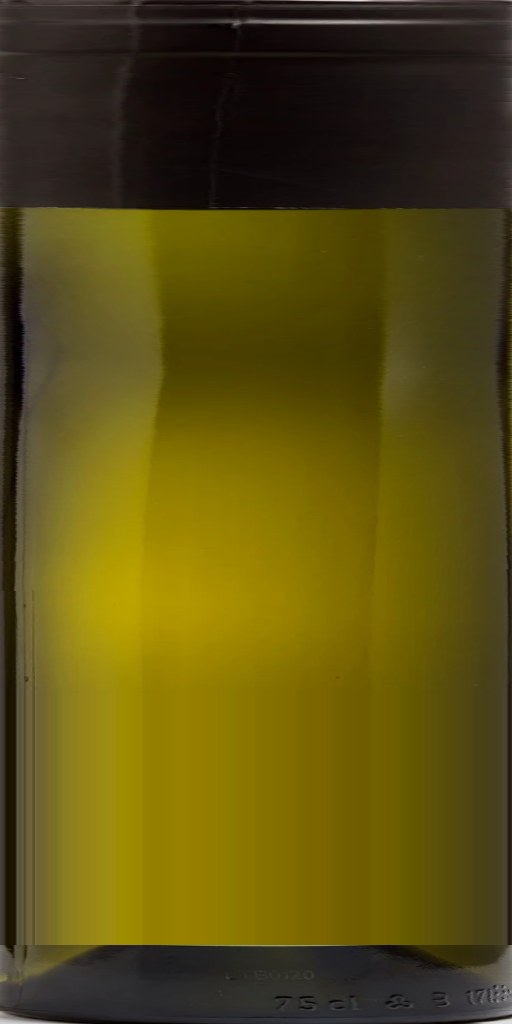
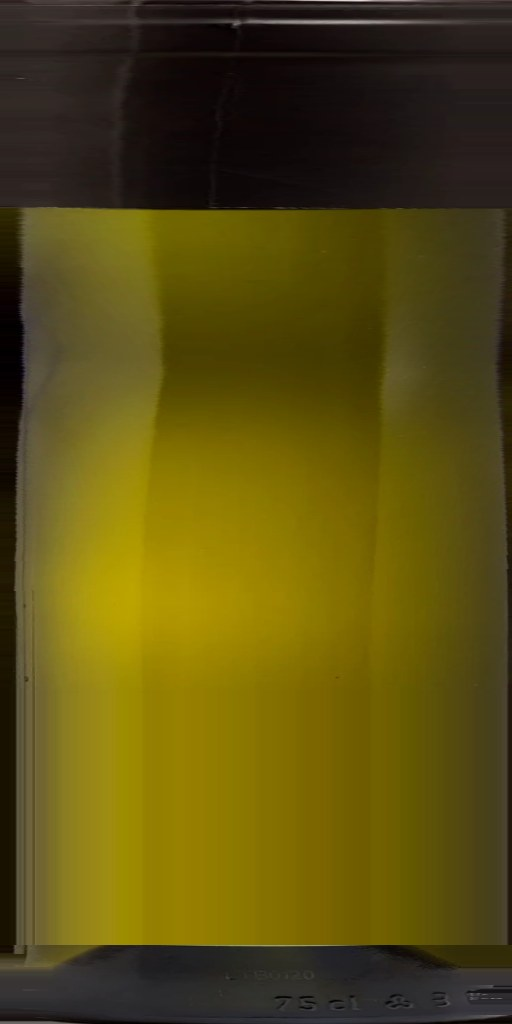
Clean the studio backdrop off the bottles' edges and bases
The skins carried a thin white rim where the glass meets the studio's
white table and backdrop. Skins are regenerated with the backdrop removed:
light, colourless pixels near the edges and under the base take the glass
colour next to them, and each row's darkest point of the glass rim runs
out to the outline. The skin material also darkens glass seen edge-on and
the heel it stands on, so no trace of the backdrop shows on the outline.

Claude-Session: https://claude.ai/code/session_01N1zkf8bkxQHkhdCxTQ4Zvu

diff --git a/src/components/bottles-3d.tsx b/src/components/bottles-3d.tsx
@@ -127,7 +127,15 @@ function skinMaterial(src: string, onLoad: () => void, onError: () => void) {
       )
     shader.fragmentShader = shader.fragmentShader
       .replace("#include <common>", "#include <common>\nvarying vec2 vSkinUv;")
-      .replace("#include <map_fragment>", "diffuseColor *= texture2D(map, vSkinUv);")
+      .replace(
+        "#include <map_fragment>",
+        `diffuseColor *= texture2D(map, vSkinUv);
+        // Glass seen edge-on, and the heel it stands on, read darker; this also hides any trace of the
+        // photo's white backdrop along the outline.
+        float rim = smoothstep(1.0, 0.86, abs(vSkinUv.x * 2.0 - 1.0));
+        float heel = smoothstep(0.0, 0.025, vSkinUv.y);
+        diffuseColor.rgb *= mix(0.4, 1.0, rim) * mix(0.15, 1.0, heel);`,
+      )
   }
   new THREE.TextureLoader().load(
     src,
